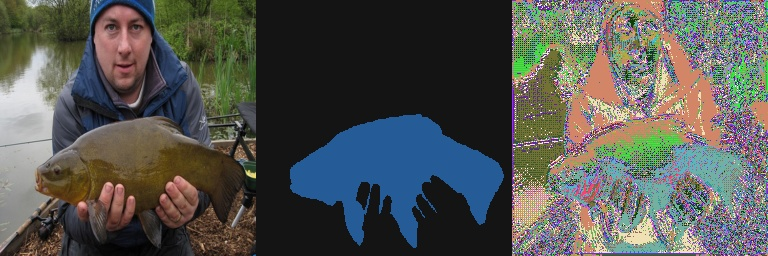
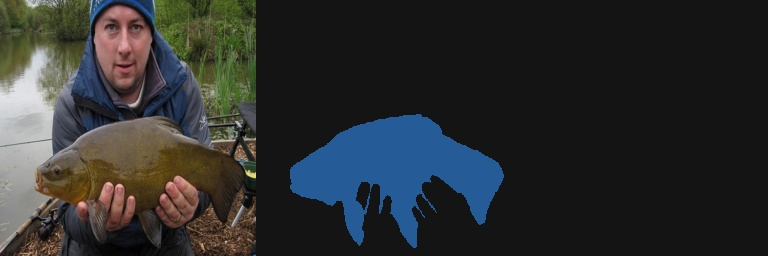
colab notebook created

diff --git a/src/training/train_segmentation.py b/src/training/train_segmentation.py
@@ -4,6 +4,7 @@ from __future__ import annotations
 
 import argparse
 import json
+from collections import Counter
 from pathlib import Path
 
 import numpy as np
@@ -59,6 +60,17 @@ def save_prediction_panels(
         panel.save(output_dir / f"{prefix}_{index:03d}.jpg", quality=95)
 
 
+def summarize_prediction_distribution(counter: Counter[int], top_k: int = 10) -> list[tuple[int, int, float]]:
+    """Return the most common predicted ids as (id, pixels, percent)."""
+    total = sum(counter.values())
+    if total == 0:
+        return []
+    return [
+        (mask_id, count, 100.0 * count / total)
+        for mask_id, count in counter.most_common(top_k)
+    ]
+
+
 def train_one_epoch(
     model: nn.Module,
     loader: DataLoader,
@@ -99,6 +111,7 @@ def validate(
     model.eval()
     running_loss = 0.0
     tracker = SegmentationMetricTracker(ignore_index=IGNORE_ID)
+    prediction_counter: Counter[int] = Counter()
     saved_visuals = False
     for batch in loader:
         images = batch["image"].to(device, non_blocking=True)
@@ -107,6 +120,9 @@ def validate(
         loss = criterion(logits, masks)
         running_loss += float(loss.item())
         tracker.update(logits, masks)
+        predictions = torch.argmax(logits.detach(), dim=1)
+        ids, counts = torch.unique(predictions.cpu(), return_counts=True)
+        prediction_counter.update({int(mask_id): int(count) for mask_id, count in zip(ids, counts)})
         if not saved_visuals and num_visualizations > 0:
             save_prediction_panels(
                 images.cpu(),
@@ -119,6 +135,9 @@ def validate(
             saved_visuals = True
     metrics = tracker.compute()
     metrics["loss"] = running_loss / max(1, len(loader))
+    print("  val prediction id distribution:")
+    for mask_id, count, percent in summarize_prediction_distribution(prediction_counter):
+        print(f"    id={mask_id:3d} pixels={count:10d} ({percent:6.2f}%)")
     return metrics
 
 
@@ -154,6 +173,7 @@ def parse_args() -> argparse.Namespace:
     parser.add_argument("--batch-size", type=int, default=8)
     parser.add_argument("--num-workers", type=int, default=0)
     parser.add_argument("--learning-rate", type=float, default=3e-4)
+    parser.add_argument("--min-learning-rate", type=float, default=3e-5)
     parser.add_argument("--weight-decay", type=float, default=1e-4)
     parser.add_argument("--base-channels", type=int, default=32)
     parser.add_argument("--max-train-samples", type=int)
@@ -191,7 +211,16 @@ def main() -> None:
     model = build_segmentation_model(num_classes=301, base_channels=args.base_channels).to(device)
     criterion = nn.CrossEntropyLoss(ignore_index=IGNORE_ID)
     optimizer = torch.optim.AdamW(model.parameters(), lr=args.learning_rate, weight_decay=args.weight_decay)
-    scheduler = torch.optim.lr_scheduler.CosineAnnealingLR(optimizer, T_max=max(1, args.epochs))
+    scheduler_t_max = max(2, args.epochs)
+    scheduler = torch.optim.lr_scheduler.CosineAnnealingLR(
+        optimizer,
+        T_max=scheduler_t_max,
+        eta_min=args.min_learning_rate,
+    )
+    print(
+        "Scheduler: CosineAnnealingLR "
+        f"T_max={scheduler_t_max}, eta_min={args.min_learning_rate:g}"
+    )
     scaler = GradScaler(enabled=use_amp)
     best_miou = -1.0
 